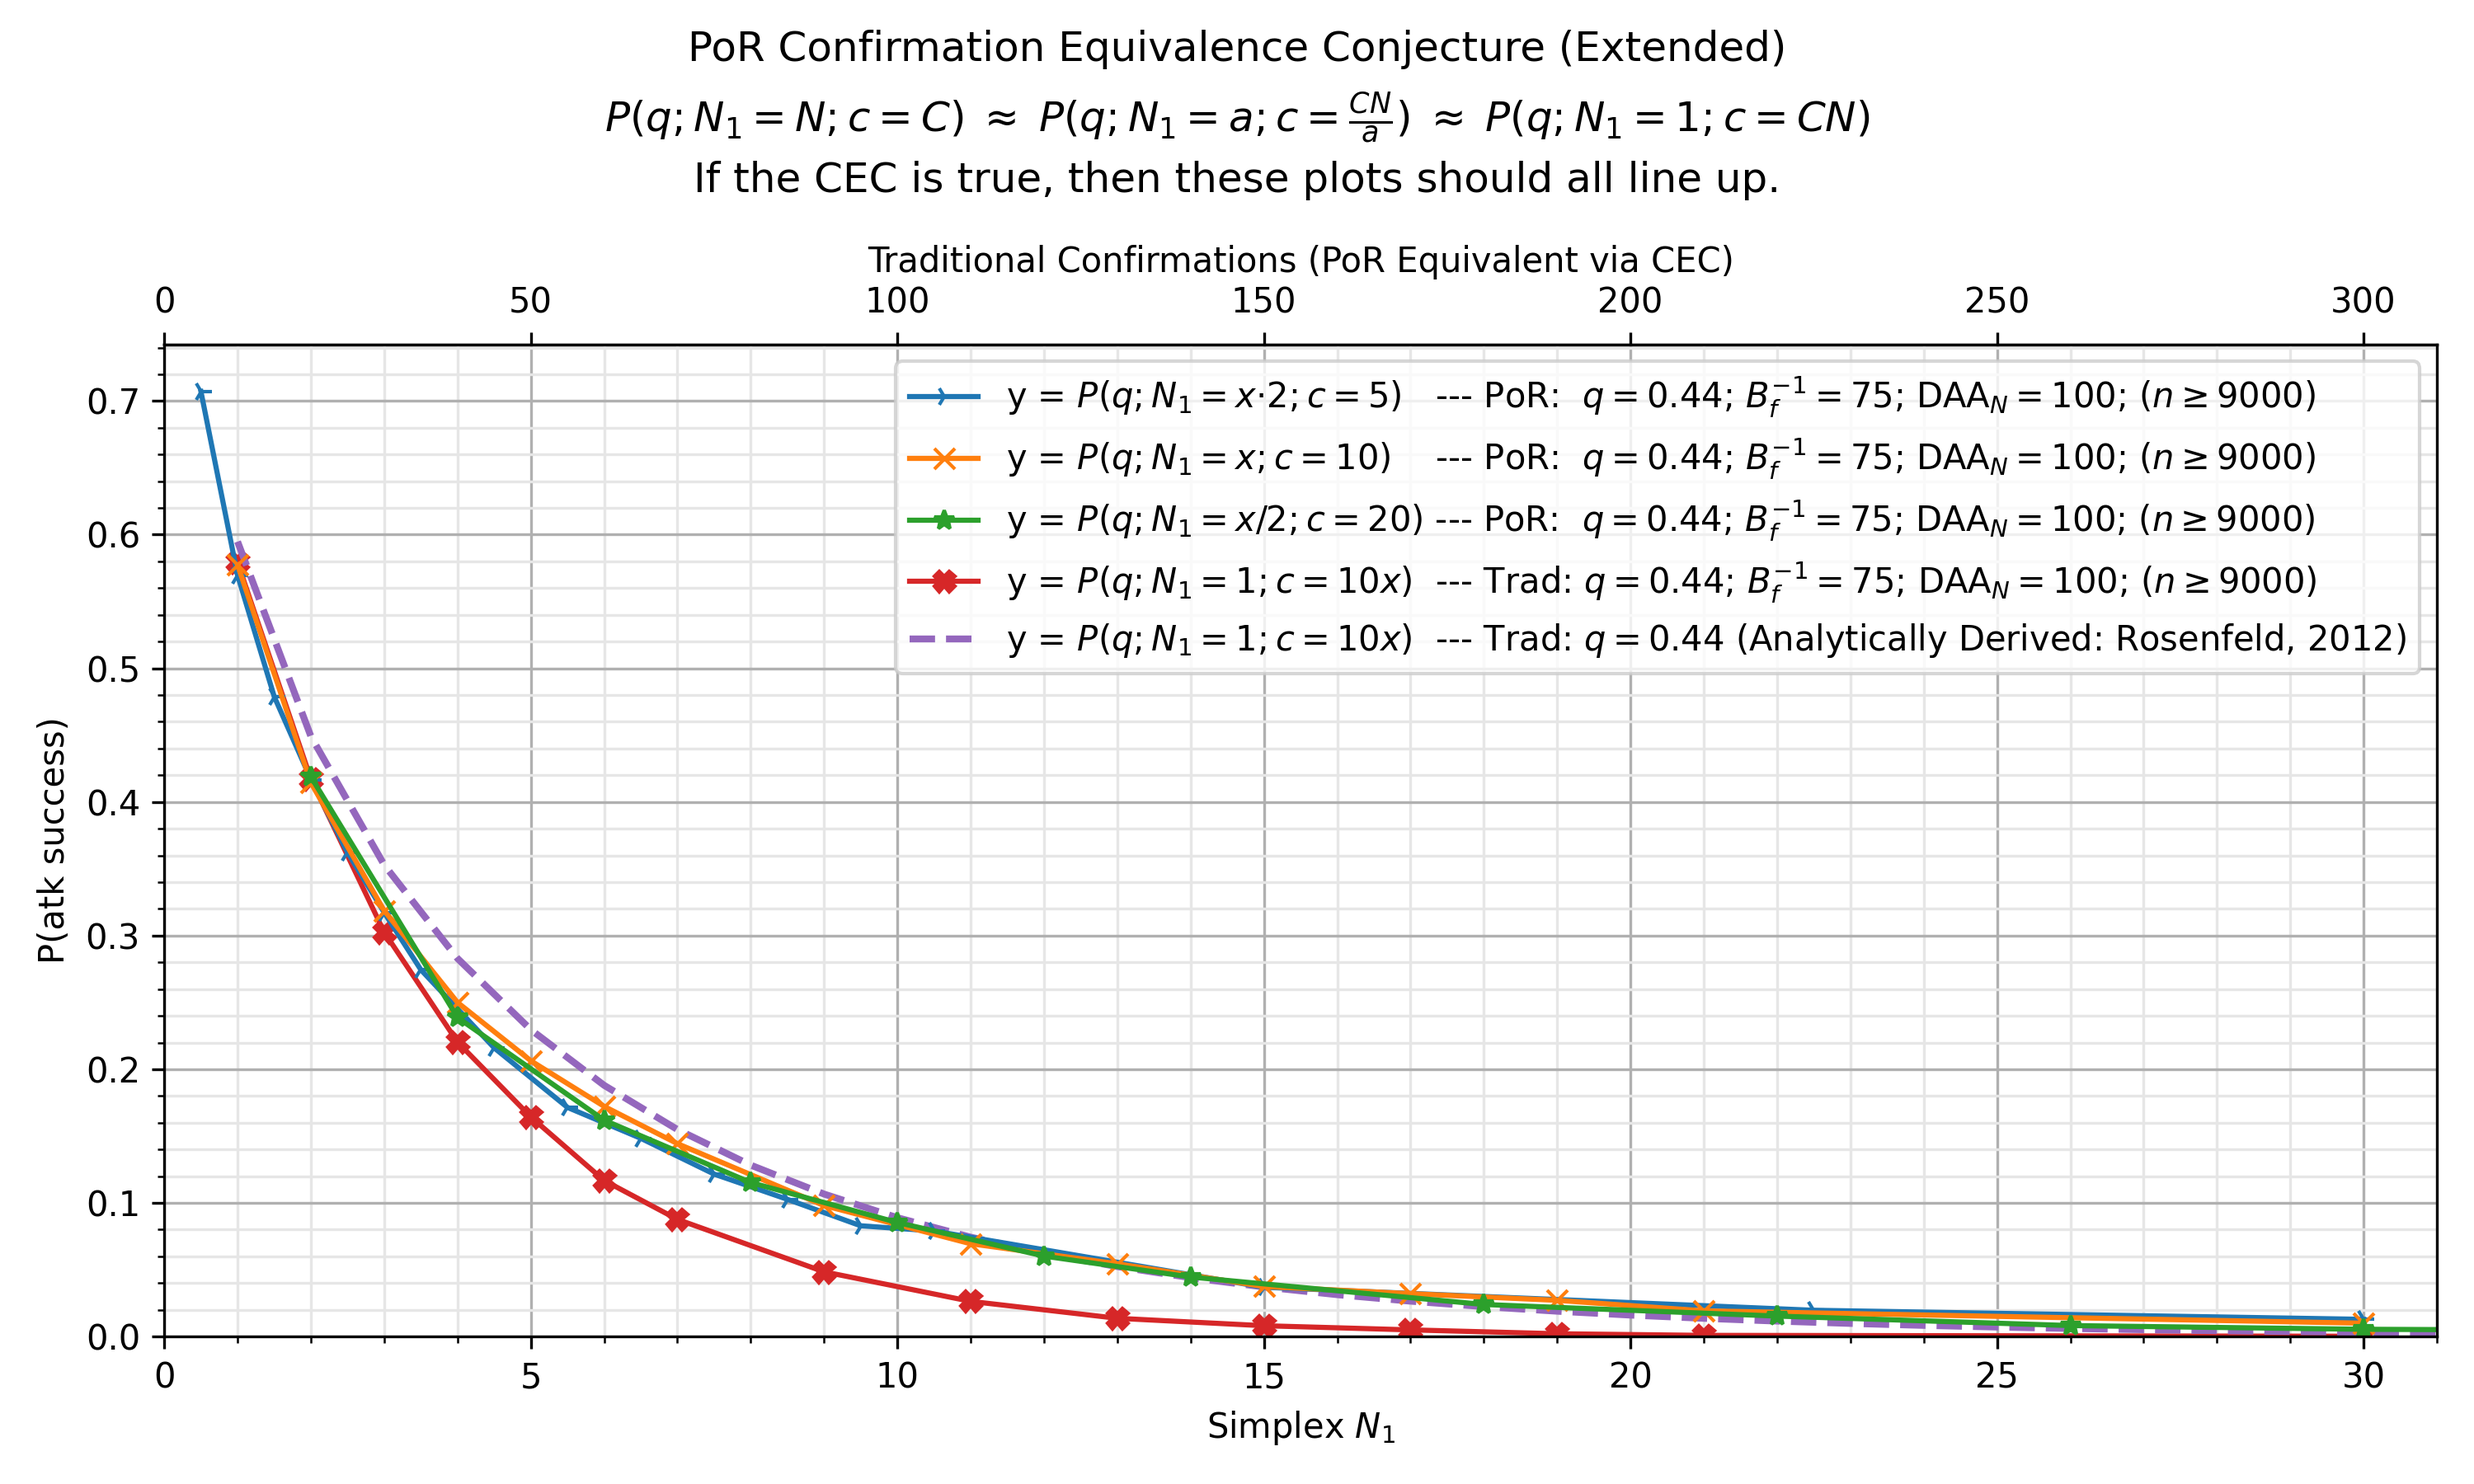
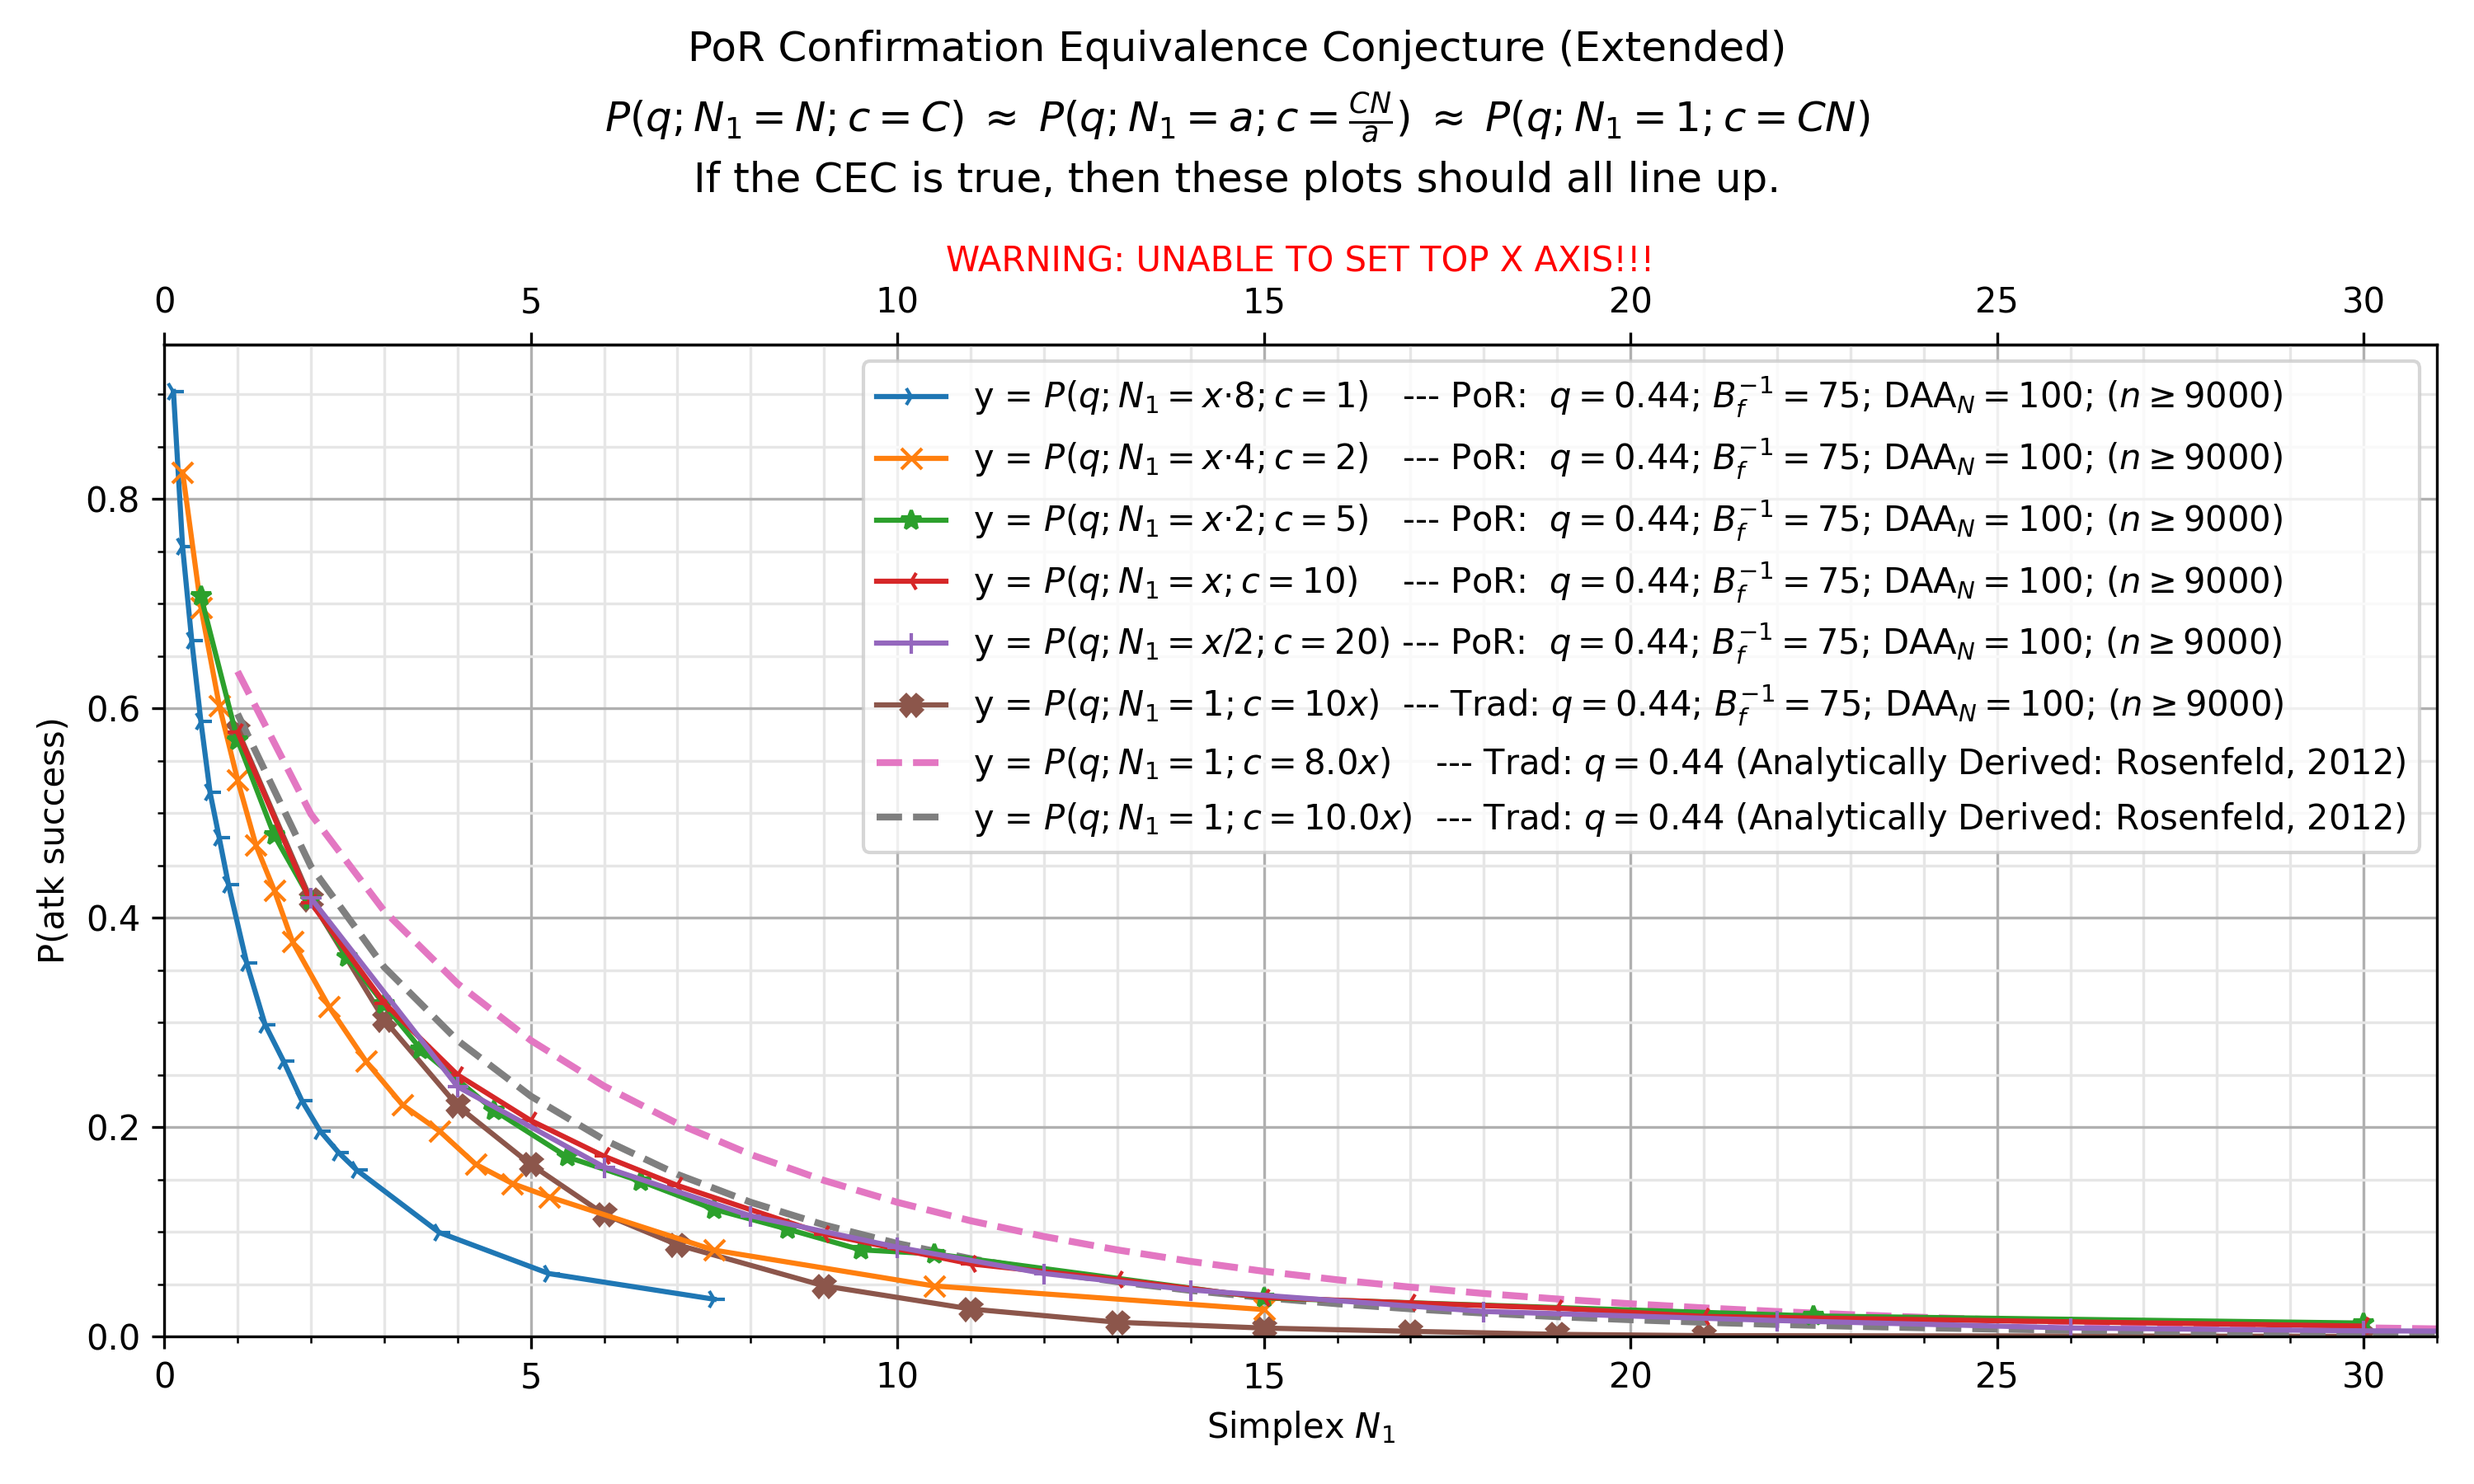
last csv generation took 16h 24m 2s (on box1) + update some charts

diff --git a/experiments/por-sim-rs/bin/py_stats.py b/experiments/por-sim-rs/bin/py_stats.py
@@ -17,7 +17,7 @@ import multiprocessing.pool as mpp
 import multiprocessing as mp
 
 
-MIN_DS_CONF = 5
+MIN_DS_CONF = 1.25
 MAX_DS_CONF = 20
 
 @dataclass
@@ -266,7 +266,7 @@ class Comment:
         }
 
 
-scaled_conv_lookup = {0.25: '4', 0.5: '2'}
+scaled_conv_lookup = {0.0625: '2^{4}', 0.125: '8', 0.25: '4', 0.5: '2'}
 
 
 def gen_cec_prob_str(ds_target, is_trad=False, scaled=None):
@@ -325,7 +325,7 @@ def plot_chart(csv_files: list[CsvFileToPlot], plot_kwargs=None, graph_theory_di
         log_ds_target = ds_target
         if por_plot_opts and por_plot_opts.cec_scaled:
             csv_data = pd.Series(csv_data.values, index=[x * por_plot_opts.cec_scaled for x in csv_data.index])
-            log_ds_target = int(ds_target / por_plot_opts.cec_scaled)
+            log_ds_target = ds_target / por_plot_opts.cec_scaled
 
         if por_plot_opts:
             _kwargs.update(**por_plot_opts.kwargs)
@@ -387,6 +387,10 @@ def plot_chart(csv_files: list[CsvFileToPlot], plot_kwargs=None, graph_theory_di
         n2c = lambda n: n * ds_c
         sec_x_axis = plt.gca().secondary_xaxis('top', functions=(n2c, c2n))
         sec_x_axis.set_xlabel('Traditional Confirmations (PoR Equivalent via CEC)')
+    else:
+        _id = lambda x: x
+        sec_x_axis = plt.gca().secondary_xaxis('top', functions=(_id, _id))
+        sec_x_axis.set_xlabel('WARNING: UNABLE TO SET TOP X AXIS!!!', color='red')
 
     if x_range:
         plt.xlim(x_range)
@@ -717,13 +721,13 @@ def main(filter_fname: Optional[str], n_jobs: int):
     def f_is_whole(x):
         return x//1 == x
 
-    def gen_por_cec_full_csvs(q: str, t: int, exp, aux, bt, hr, daa, max_c_oom_span=2, oom_base=2, **kwargs) -> list[CsvFileToPlot]:
+    def gen_por_cec_full_csvs(q: str, t: int, exp, aux, bt, hr, daa, max_c_oom_span=4, oom_base=2, **kwargs) -> list[CsvFileToPlot]:
         csvs = []
         csv_name_f = csv_name_f_from_exp(exp)
         scaling_options = [(t*s, PorPlotOpts(cec_scaled=s) if s != 1 else None) for s in [oom_base**i for i in range(0-max_c_oom_span, max_c_oom_span+1)]]
         for (_t, opts) in scaling_options:
-            if f_is_whole(_t) and MIN_DS_CONF <= _t <= MAX_DS_CONF:
-                csvs.append((csv_name_f(q, int(_t), bt, hr, exp_num=exp, daa=daa, strat="DoubleSpendWork", cs="WeightedDag", **kwargs), 'por', opts))
+            if MIN_DS_CONF <= _t <= MAX_DS_CONF:  # f_is_whole(_t) and
+                csvs.append((csv_name_f(q, int(_t) if f_is_whole(_t) else _t, bt, hr, exp_num=exp, daa=daa, strat="DoubleSpendWork", cs="WeightedDag", **kwargs), 'por', opts))
         csvs.append((csv_name_f(q, t, bt, hr, exp_num=f'{exp}{aux}', daa=daa, strat="DoubleSpendWork", cs="WeightedDag", **kwargs), 'trad', None))
         return csvs
 
